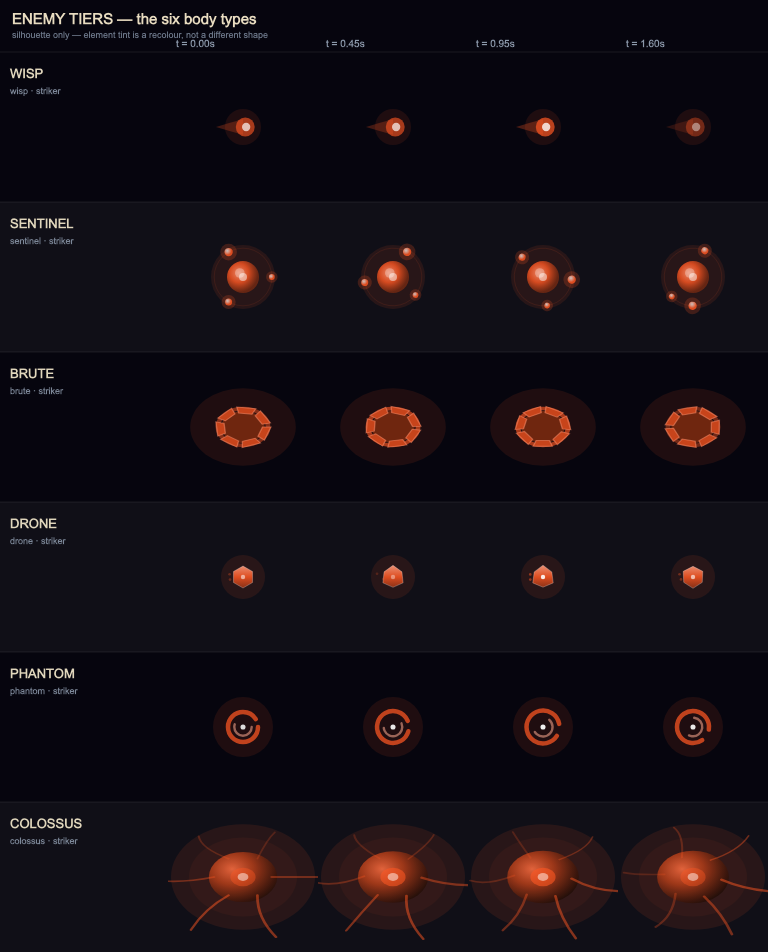
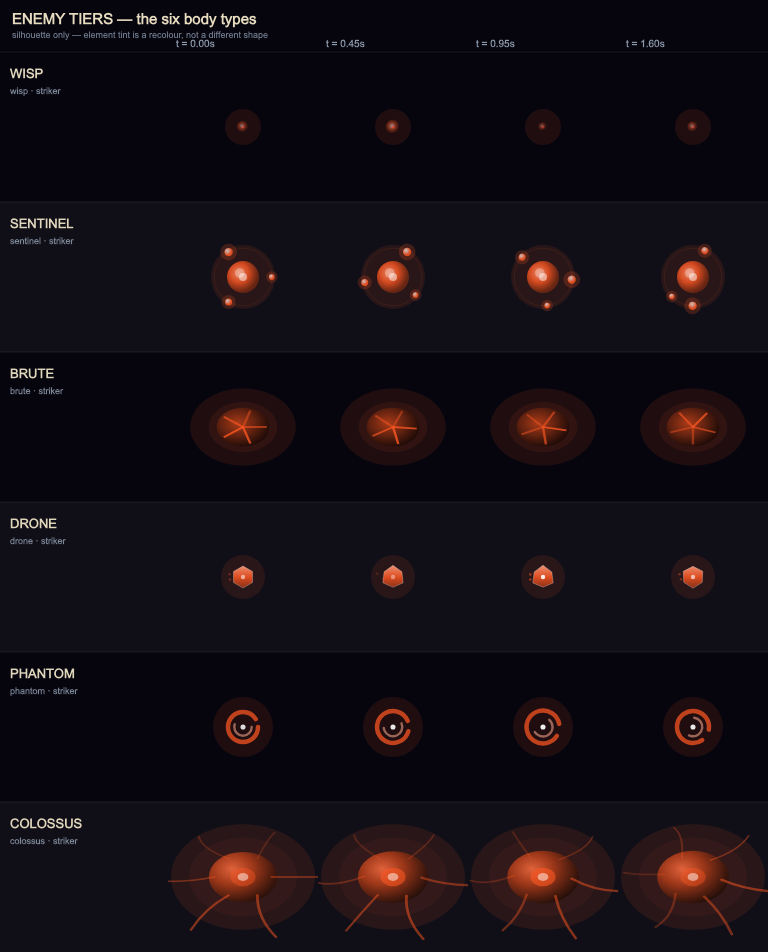
Keep only the phantom rebuild; restore the original wisp and brute
Partial revert of f4da2c0, at the user's call. The wisp and brute bodies are
restored verbatim from 5dc9b24; the hollow phantom stays.

The phantom was the one worth changing regardless of taste: it was the brute's
silhouette at lower alpha, so it was simultaneously the least visible enemy in
the game and indistinguishable from the tier above it. Hollow rings make
ghostliness a form rather than a transparency, which fixes both.

The wisp's soft radial mote is a legitimate read for a swarm creature even
though it gives no heading cue, and the brute's centre-radiating cracks are the
author's call. Neither is a defect the way the phantom was.

diff --git a/lib/games/cosmic/cosmic_enemy_vfx.dart b/lib/games/cosmic/cosmic_enemy_vfx.dart
@@ -295,42 +295,29 @@ void drawEnemy({
 
   switch (enemy.tier) {
     case EnemyTier.wisp:
-      // A comet mote, not a dim dot. The old wisp was a low-contrast radial
-      // circle: near-invisible against space (a dodging problem, not just an
-      // aesthetic one) and with no indication of where it was going — which
-      // matters most for the one body that arrives 30 at a time.
-      final flicker = 0.72 + 0.28 * sin(elapsed * 7 + enemy.angle * 5);
-      final dir = Offset(cos(enemy.angle), sin(enemy.angle));
-      final perp = Offset(-dir.dy, dir.dx);
-      final tail = -dir * (r * 3.0);
-      canvas.drawPath(
-        Path()
-          ..moveTo(perp.dx * r * 0.85, perp.dy * r * 0.85)
-          ..quadraticBezierTo(
-            perp.dx * r * 0.5 + tail.dx * 0.45,
-            perp.dy * r * 0.5 + tail.dy * 0.45,
-            tail.dx,
-            tail.dy,
-          )
-          ..quadraticBezierTo(
-            -perp.dx * r * 0.5 + tail.dx * 0.45,
-            -perp.dy * r * 0.5 + tail.dy * 0.45,
-            -perp.dx * r * 0.85,
-            -perp.dy * r * 0.85,
-          )
-          ..close(),
-        Paint()..color = flashColor.withValues(alpha: 0.34 * flicker),
-      );
+      final flicker = 0.7 + 0.3 * sin(elapsed * 6 + enemy.angle * 5);
+      final wobble = r * flicker;
       canvas.drawCircle(
-        dir * r * 0.25,
-        r * 1.05,
-        Paint()..color = flashColor.withValues(alpha: 0.85 * flicker),
-      );
-      canvas.drawCircle(
-        dir * r * 0.35,
-        r * 0.46,
+        Offset.zero,
+        wobble,
         Paint()
-          ..color = const Color(0xFFFFFFFF).withValues(alpha: 0.95 * flicker),
+          ..shader = ui.Gradient.radial(
+            const Offset(-1, -1),
+            wobble,
+            [
+              Colors.white.withValues(alpha: 0.7 * flicker),
+              flashColor.withValues(alpha: 0.5 * flicker),
+              flashColor.withValues(alpha: 0.0),
+            ],
+            [0.0, 0.5, 1.0],
+          ),
+      );
+      canvas.drawCircle(
+        Offset.zero,
+        r * 0.15,
+        Paint()
+          ..color = Colors.red.withValues(alpha: 0.9 * flicker)
+          ..maskFilter = null,
       );
 
     case EnemyTier.sentinel:
@@ -502,50 +489,61 @@ void drawEnemy({
       );
 
     case EnemyTier.brute:
-      // Armour plates around a dark core. The old brute was a radial-gradient
-      // sphere with five cracks radiating from its centre — which renders as
-      // an asterisk laid over a ball, the same motif the Let meteors had to
-      // have removed.
-      const plates = 7;
-      final spin = elapsed * 0.35;
-      final core = Color.lerp(flashColor, Colors.black, 0.55)!;
       canvas.drawCircle(
         Offset.zero,
-        r * 0.82,
-        Paint()..color = core.withValues(alpha: 0.95),
-      );
-      // Element glow leaks through the seams between plates.
-      canvas.drawCircle(
-        Offset.zero,
-        r * 0.95,
+        r,
         Paint()
-          ..style = PaintingStyle.stroke
-          ..strokeWidth = r * 0.18
-          ..color = eColor.withValues(
-            alpha: 0.45 + 0.2 * sin(elapsed * 2.2),
+          ..shader = ui.Gradient.radial(
+            Offset(-r * 0.2, -r * 0.2),
+            r * 1.3,
+            [
+              Color.lerp(flashColor, Colors.black, 0.3)!.withValues(alpha: 0.9),
+              Color.lerp(flashColor, Colors.black, 0.6)!.withValues(alpha: 0.8),
+              Colors.black.withValues(alpha: 0.7),
+            ],
+            [0.0, 0.5, 1.0],
           ),
       );
-      final plate = Paint()
-        ..color = Color.lerp(flashColor, Colors.black, 0.22)!;
-      final plateEdge = Paint()
-        ..style = PaintingStyle.stroke
-        ..strokeWidth = 1.1
-        ..color = Color.lerp(eColor, Colors.white, 0.35)!.withValues(
-          alpha: 0.5,
+      for (var crack = 0; crack < 5; crack++) {
+        final ca = crack * pi * 2 / 5 + elapsed * 0.2;
+        final crackPath = Path()
+          ..moveTo(0, 0)
+          ..lineTo(cos(ca) * r * 0.9, sin(ca) * r * 0.9);
+        canvas.drawPath(
+          crackPath,
+          Paint()
+            ..color = eColor.withValues(
+              alpha: 0.6 + 0.2 * sin(elapsed * 2 + crack),
+            )
+            ..strokeWidth = 2.0
+            ..style = PaintingStyle.stroke
+            ..maskFilter = null,
         );
-      for (var i = 0; i < plates; i++) {
-        final a0 = spin + i * (pi * 2 / plates);
-        final a1 = a0 + (pi * 2 / plates) * 0.78;
-        final inner = r * 0.74;
-        final outer = r * 1.06;
-        final path = Path()
-          ..moveTo(cos(a0) * inner, sin(a0) * inner)
-          ..lineTo(cos(a0) * outer, sin(a0) * outer)
-          ..lineTo(cos(a1) * outer, sin(a1) * outer)
-          ..lineTo(cos(a1) * inner, sin(a1) * inner)
-          ..close();
-        canvas.drawPath(path, plate);
-        canvas.drawPath(path, plateEdge);
+      }
+      canvas.drawCircle(
+        Offset.zero,
+        r * 1.3,
+        Paint()
+          ..color = eColor.withValues(alpha: 0.08)
+          ..maskFilter = null,
+      );
+      final bruteHpFrac = enemy.hpFraction;
+      if (bruteHpFrac < 1.0) {
+        final barW = r * 2.5;
+        canvas.drawRRect(
+          RRect.fromRectAndRadius(
+            Rect.fromCenter(center: Offset(0, -r - 8), width: barW, height: 3),
+            const Radius.circular(1.5),
+          ),
+          Paint()..color = Colors.black.withValues(alpha: 0.6),
+        );
+        canvas.drawRRect(
+          RRect.fromRectAndRadius(
+            Rect.fromLTWH(-barW / 2, -r - 8 - 1.5, barW * bruteHpFrac, 3),
+            const Radius.circular(1.5),
+          ),
+          Paint()..color = Color.lerp(Colors.red, eColor, bruteHpFrac)!,
+        );
       }
 
     case EnemyTier.colossus:
